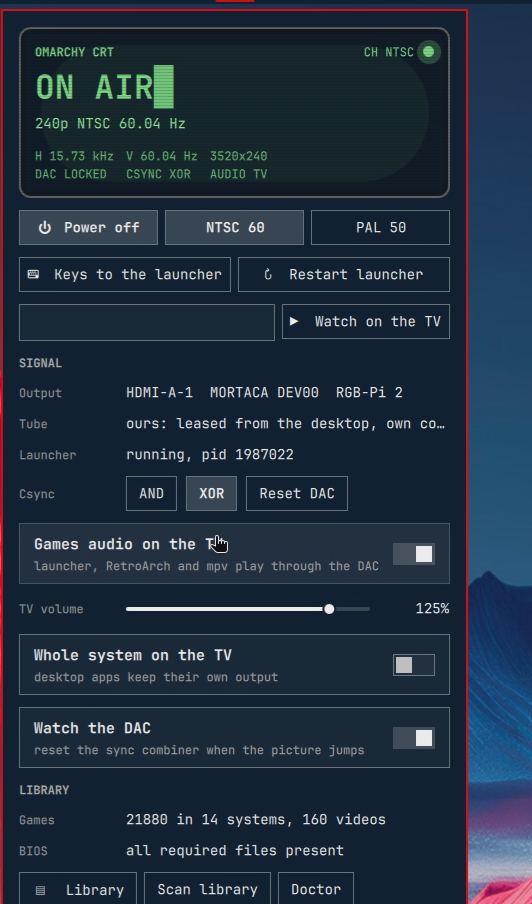
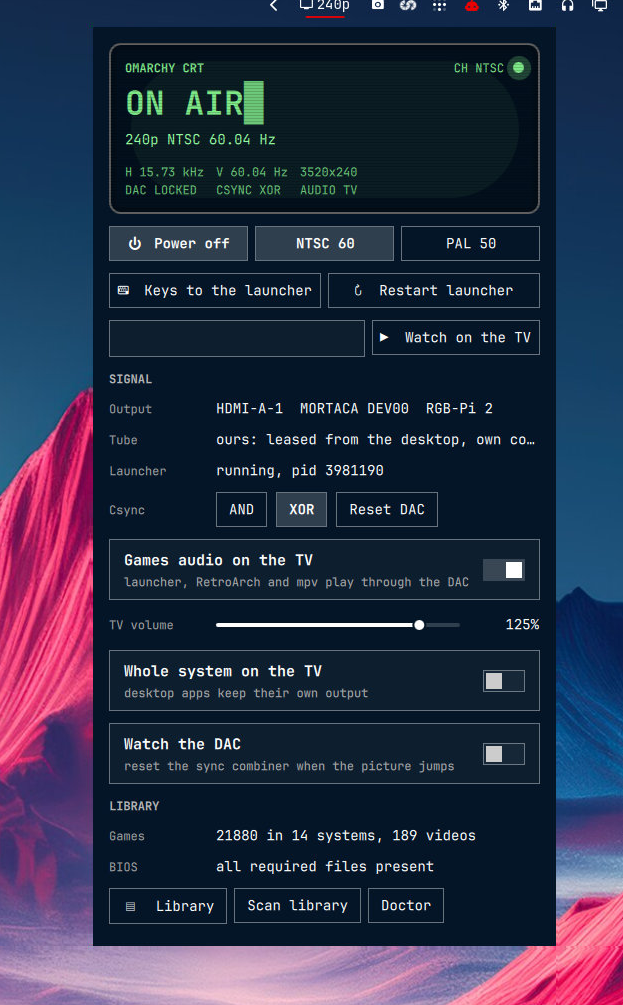
docs: an architecture illustration drawn in the launcher's own font
scripts/architecture.py composes the diagram at 640x400 with the 8x8
bitmap font the launcher draws with, read straight out of the source, and
scales it by two with nearest neighbour so the pixels stay pixels. The
picture opens the "how it works" section; the flowchart stays underneath
for what a picture cannot hold.

The panel screenshot is a fresh one, with the bar above it and the
wallpaper around it.

diff --git a/scripts/architecture.py b/scripts/architecture.py
@@ -1,0 +1,242 @@
+#!/usr/bin/env python3
+"""Draw the architecture as a 16 bit illustration, in the launcher's own font.
+
+    scripts/architecture.py [OUT.png]
+
+The picture is composed at 640x400 with an 8x8 bitmap font — the very font the
+launcher draws with, read straight out of `shell/src/font8x8.rs` — and then
+scaled by two with nearest neighbour, so every pixel stays a pixel. Colours
+are Tokyo Night, the theme the launcher ships with.
+
+Needs Pillow. No other dependency, and nothing from the shell at runtime.
+"""
+
+from __future__ import annotations
+
+import re
+import sys
+from pathlib import Path
+
+from PIL import Image, ImageDraw
+
+ROOT = Path(__file__).resolve().parent.parent
+FONT_RS = ROOT / "shell" / "src" / "font8x8.rs"
+
+W, H = 640, 400
+SCALE = 2
+
+BG = (7, 9, 15)
+PANEL = (26, 27, 38)
+PANEL2 = (32, 34, 48)
+FG = (192, 202, 245)
+DIM = (86, 95, 137)
+ACCENT = (122, 162, 247)
+CYAN = (125, 207, 255)
+MAGENTA = (187, 154, 247)
+GREEN = (158, 206, 106)
+ORANGE = (255, 158, 100)
+RED = (247, 118, 142)
+GLASS = (12, 16, 28)
+
+
+def load_font() -> list[list[int]]:
+    """The 8x8 font as 128 rows of 8 bytes, bit 0 being the leftmost pixel."""
+    text = FONT_RS.read_text()
+    rows = re.findall(r"\[((?:\s*0x[0-9a-fA-F]{2}\s*,?){8})\]", text)
+    font = []
+    for row in rows:
+        font.append([int(b, 16) for b in re.findall(r"0x([0-9a-fA-F]{2})", row)])
+    if len(font) < 128:
+        raise SystemExit(f"font8x8.rs gave {len(font)} glyphs, expected 128")
+    return font[:128]
+
+
+FONT = load_font()
+
+
+class Canvas:
+    def __init__(self, w: int, h: int, bg):
+        self.im = Image.new("RGB", (w, h), bg)
+        self.d = ImageDraw.Draw(self.im)
+
+    # -- primitives ------------------------------------------------------
+    def rect(self, x, y, w, h, c):
+        if w <= 0 or h <= 0:
+            return
+        self.d.rectangle([x, y, x + w - 1, y + h - 1], fill=c)
+
+    def frame(self, x, y, w, h, c):
+        self.d.rectangle([x, y, x + w - 1, y + h - 1], outline=c)
+
+    def dither(self, x, y, w, h, c, step=2):
+        """A checkerboard fill: the cheapest 16 bit shading there is."""
+        for yy in range(y, y + h):
+            for xx in range(x + (yy % step), x + w, step):
+                if 0 <= xx < self.im.width and 0 <= yy < self.im.height:
+                    self.im.putpixel((xx, yy), c)
+
+    def text(self, x, y, s, c, scale=1):
+        for i, ch in enumerate(s):
+            code = ord(ch) if ord(ch) < 128 else ord("?")
+            for ry, bits in enumerate(FONT[code]):
+                for rx in range(8):
+                    if bits & (1 << rx):
+                        self.rect(
+                            x + (i * 8 + rx) * scale, y + ry * scale, scale, scale, c
+                        )
+
+    def text_centered(self, cx, y, s, c, scale=1):
+        self.text(cx - len(s) * 8 * scale // 2, y, s, c, scale)
+
+    # -- pieces ----------------------------------------------------------
+    def box(self, x, y, w, h, title, colour, fill=PANEL):
+        """A panel with a shadow, a lit top edge and a title in its corner."""
+        self.dither(x + 3, y + 3, w, h, (14, 16, 24))
+        self.rect(x, y, w, h, fill)
+        self.frame(x, y, w, h, colour)
+        self.rect(x + 1, y + 1, w - 2, 1, tuple(min(255, v + 24) for v in fill))
+        if title:
+            self.rect(x + 1, y + 1, w - 2, 9, colour)
+            self.text(x + 4, y + 2, title, BG)
+
+    def arrow(self, x0, y0, x1, y1, c, label="", label_above=True):
+        """Straight arrow, horizontal or vertical, with a chunky head."""
+        if y0 == y1:
+            step = 1 if x1 > x0 else -1
+            for x in range(x0, x1, step):
+                if (x // 2) % 2 == 0 or True:
+                    self.rect(x, y0, 1, 1, c)
+            for k in range(4):
+                self.rect(x1 - step * k, y0 - k, 1, 2 * k + 1, c)
+            if label:
+                ly = y0 - 12 if label_above else y0 + 5
+                self.text(min(x0, x1) + 4, ly, label, c)
+        else:
+            step = 1 if y1 > y0 else -1
+            for y in range(y0, y1, step):
+                self.rect(x0, y, 1, 1, c)
+            for k in range(4):
+                self.rect(x0 - k, y1 - step * k, 2 * k + 1, 1, c)
+            if label:
+                self.text(x0 + 6, min(y0, y1) + 6, label, c)
+
+    def television(self, x, y, w, h):
+        """A tube in pixels: cabinet, bezel, glass, scanlines, a stand."""
+        self.dither(x + 4, y + 4, w, h, (14, 16, 24))
+        self.rect(x, y, w, h, (38, 40, 54))
+        self.frame(x, y, w, h, DIM)
+        self.rect(x + 1, y + 1, w - 2, 1, (58, 62, 82))
+        # Screen, inset, with rounded corners suggested by two clipped pixels.
+        sx, sy, sw, sh = x + 6, y + 6, w - 12, h - 22
+        self.rect(sx, sy, sw, sh, GLASS)
+        self.frame(sx, sy, sw, sh, (18, 22, 36))
+        for cx, cy in ((sx, sy), (sx + sw - 1, sy), (sx, sy + sh - 1), (sx + sw - 1, sy + sh - 1)):
+            self.rect(cx, cy, 1, 1, (38, 40, 54))
+        # Scanlines first, then the picture on top of them, or the wordmark
+        # comes out too dark to read at this size.
+        for yy in range(sy, sy + sh, 2):
+            self.dither(sx, yy, sw, 1, (0, 0, 0), step=1)
+        self.text_centered(sx + sw // 2, sy + sh // 2 - 12, "OMARCHY", CYAN)
+        self.text_centered(sx + sw // 2, sy + sh // 2 - 1, "CRT", MAGENTA)
+        self.rect(sx + 10, sy + sh // 2 + 11, sw - 20, 1, (40, 52, 84))
+        self.rect(sx + 10, sy + sh // 2 + 15, sw - 34, 1, (30, 40, 64))
+        # Glow spilling past the bezel, the way a tube does in a dark room.
+        for k in range(1, 4):
+            c = (10 + 4 * (4 - k), 14 + 5 * (4 - k), 26 + 8 * (4 - k))
+            self.frame(sx - k, sy - k, sw + 2 * k, sh + 2 * k, c)
+        # Speaker grille and stand.
+        self.dither(x + 6, y + h - 13, w - 12, 6, (58, 62, 82), step=2)
+        self.rect(x + w // 2 - 8, y + h, 16, 3, (38, 40, 54))
+        self.rect(x + w // 2 - 16, y + h + 3, 32, 2, DIM)
+
+
+def draw() -> Image.Image:
+    c = Canvas(W, H, BG)
+
+    # A faint grid, so the picture reads as a diagram and not a poster.
+    for y in range(0, H, 8):
+        c.dither(0, y, W, 1, (13, 15, 23), step=4)
+
+    # ------------------------------------------------------------ title
+    c.rect(0, 0, W, 16, PANEL2)
+    c.rect(0, 16, W, 1, ACCENT)
+    c.text(8, 4, "OMARCHY CRT", FG)
+    c.text(8 + 12 * 8, 4, "ARCHITECTURE", ACCENT)
+    right = "320x240 -> 3520x240 @ 15.7 kHz"
+    c.text(W - 8 - len(right) * 8, 4, right, DIM)
+
+    # ---------------------------------------------------------- desktop
+    c.box(8, 32, 240, 152, "OMARCHY DESKTOP", ACCENT)
+    c.text(16, 50, "Hyprland 0.56", DIM)
+    c.box(16, 64, 224, 30, "", MAGENTA, fill=PANEL2)
+    c.text(24, 70, "bar plugin", MAGENTA)
+    c.text(24, 80, "panel + library overlay", DIM)
+    c.box(16, 100, 224, 30, "", CYAN, fill=PANEL2)
+    c.text(24, 106, "omarchy-crt", CYAN)
+    c.text(24, 116, "one CLI for everything", DIM)
+    c.box(16, 136, 224, 30, "", GREEN, fill=PANEL2)
+    c.text(24, 142, "cliamp --daemon", GREEN)
+    c.text(24, 152, "radio, Spotify, spectrum", DIM)
+
+    # ---------------------------------------------------------- display
+    c.box(272, 32, 216, 152, "omarchy-crt-display", ORANGE)
+    c.text(280, 50, "Smithay compositor", DIM)
+    c.box(280, 64, 200, 26, "", FG, fill=PANEL2)
+    c.text(288, 72, "DRM modeset by hand", FG)
+    c.box(280, 96, 200, 26, "", FG, fill=PANEL2)
+    c.text(288, 104, "launcher, 320x240", FG)
+    c.box(280, 128, 200, 26, "", FG, fill=PANEL2)
+    c.text(288, 136, "RetroArch, mpv", FG)
+    c.text(280, 164, "it owns the connector", ORANGE)
+
+    # --------------------------------------------------------- the tube
+    c.box(512, 32, 120, 34, "", DIM, fill=PANEL2)
+    c.text(520, 38, "RGB-PI 2", ORANGE)
+    c.text(520, 50, "HDMI to RGB", DIM)
+    c.television(508, 84, 128, 92)
+    c.text_centered(572, 186, "BEOCENTER 1", DIM)
+
+    # ---------------------------------------------------------- wiring
+    c.arrow(248, 79, 272, 79, MAGENTA)
+    c.arrow(248, 113, 272, 113, CYAN)
+    c.arrow(248, 151, 272, 151, GREEN)
+    c.arrow(488, 49, 512, 49, ORANGE)
+    c.arrow(572, 66, 572, 84, ORANGE)
+
+    # ---------------------------------------------------------- legend
+    c.box(8, 204, 624, 148, "HOW THE TELEVISION IS TAKEN AWAY FROM THE DESKTOP", ACCENT)
+    lines = [
+        (MAGENTA, "1", "an EDID override at boot marks the DAC connector non-desktop,"),
+        (MAGENTA, "", "so Hyprland drops it from its monitors and offers it for lease"),
+        (ORANGE, "2", "omarchy-crt-display takes that lease, programs 15.7 kHz through"),
+        (ORANGE, "", "DRM and runs its own Wayland show: nothing else can land there"),
+        (CYAN, "3", "the CLI drives the launcher over a control pipe, the bar plugin"),
+        (CYAN, "", "drives the CLI, and the launcher draws every pixel by hand"),
+        (GREEN, "4", "music arrives from cliamp over its Unix socket, films through"),
+        (GREEN, "", "mpv and yt-dlp, all of them clients of the tube's compositor"),
+    ]
+    y = 226
+    for colour, num, text in lines:
+        if num:
+            c.rect(18, y - 1, 10, 10, colour)
+            c.text(19, y, num, BG)
+        c.text(34, y, text, FG if num else DIM)
+        y += 15
+
+    foot = "one output, leased away from the desktop, driven at 1998 timings"
+    c.text_centered(W // 2, 366, foot, DIM)
+    c.rect(0, H - 4, W, 1, ACCENT)
+    return c.im
+
+
+def main() -> None:
+    out = Path(sys.argv[1]) if len(sys.argv) > 1 else ROOT / "docs" / "architecture.png"
+    im = draw()
+    im = im.resize((W * SCALE, H * SCALE), Image.NEAREST)
+    out.parent.mkdir(parents=True, exist_ok=True)
+    im.save(out)
+    print(out)
+
+
+if __name__ == "__main__":
+    main()

diff --git a/README.md b/README.md
@@ -99,6 +99,12 @@ the scanlines.
 
 ## How it works
 
+<p align="center">
+  <img src="docs/architecture.png" width="720" alt="Omarchy CRT architecture, drawn as a 16 bit illustration">
+</p>
+
+The same thing as a flowchart, for the parts a picture cannot hold:
+
 ```mermaid
 flowchart LR
   subgraph desktop["Omarchy desktop (Hyprland)"]
